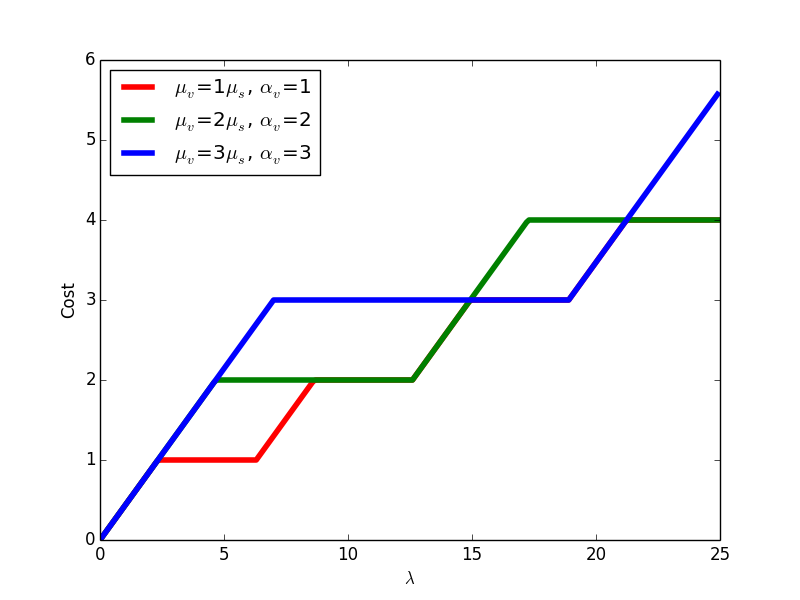
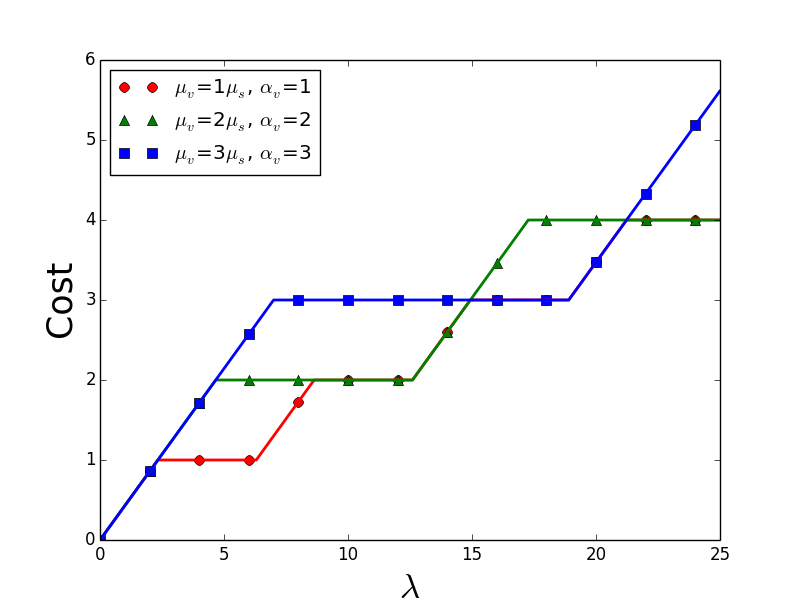
final version of code for all netEcon experiments

diff --git a/scripts/generate_plots.py b/scripts/generate_plots.py
@@ -505,7 +505,7 @@ def calcVMcost(alpha_m, mu_m, gamma, i, lambda_m, mode):
 
 def plotmultipleVMs_vary_mu():
 	max_lambda = 24
-	lambdas = [.1*x for x in range(0,((max_lambda+1)*10))]
+	lambdas = [.01*x for x in range(0,((max_lambda+1)*100))]
 	alpha_v_multiple = 1.0
 	alpha_s = 3*alpha_v_multiple
 	mu_ratios = [1,2,3]
@@ -550,20 +550,23 @@ def plotmultipleVMs_vary_mu():
 	for ratio in mu_ratios:
 		key = r'$\mu_v$=' + str(ratio) + r'$\mu_s$' + ', ' + r'$\alpha_v$=' + str(ratio)
 		legends.append(key)
-	plt.plot(lambdas, results[0], 'r', linewidth=4)
-	plt.plot(lambdas, results[1], 'g', linewidth=4)
-	plt.plot(lambdas, results[2], 'b', linewidth=4)
+	plt.plot(lambdas[::200], results[0][::200], 'ro', markersize=7)
+	plt.plot(lambdas[::200], results[1][::200], 'g^', markersize=7)
+	plt.plot(lambdas[::200], results[2][::200], 'bs', markersize=7)
+	plt.plot(lambdas, results[0], 'r', linewidth='2')
+	plt.plot(lambdas, results[1], 'g', linewidth='2')
+	plt.plot(lambdas, results[2], 'b', linewidth='2')
 	# plt.plot(lambdas, results[3], 'cD')
 	plt.legend(legends, loc='upper left')
-	plt.ylabel('Cost')
+	plt.ylabel('Cost', fontsize=25)
 	# title = "Multiple VMs, different price ratios"
 	# fig.suptitle(title)
-	plt.xlabel(r'$\lambda$')
+	plt.xlabel(r'$\lambda$', fontsize=25)
 	plt.savefig(filename)
 
 def plotmultipleVMs_vary_price_ratio():
 	max_lambda = 24
-	lambdas = [.1*x for x in range(0,((max_lambda+1)*10))]
+	lambdas = [.01*x for x in range(0,((max_lambda+1)*100))]
 	alpha_v = 1.0
 	price_ratios = [1.3,3,10]
 	mu_v = 7.0
@@ -609,15 +612,18 @@ def plotmultipleVMs_vary_price_ratio():
 		# key = "hello" + str(ratio) 
 		key = r'$\alpha_s$=' + str(ratio) + r'$\alpha_v$'
 		legends.append(key)
-	plt.plot(lambdas, results[0], 'r', linewidth=4)
-	plt.plot(lambdas, results[1], 'g', linewidth=4)
-	plt.plot(lambdas, results[2], 'b', linewidth=4)
+	plt.plot(lambdas[::200], results[0][::200], 'ro', markersize=7)
+	plt.plot(lambdas[::200], results[1][::200], 'g^', markersize=7)
+	plt.plot(lambdas[::200], results[2][::200], 'bs', markersize=7)
+	plt.plot(lambdas, results[0], 'r', linewidth='2')
+	plt.plot(lambdas, results[1], 'g', linewidth='2')
+	plt.plot(lambdas, results[2], 'b', linewidth='2')
 	# plt.plot(lambdas, results[3], 'cD')
 	plt.legend(legends, loc='upper left')
-	plt.ylabel('Cost')
+	plt.ylabel('Cost', fontsize=25)
 	# title = "Multiple VMs, different price ratios"
 	# fig.suptitle(title)
-	plt.xlabel(r'$\lambda$')
+	plt.xlabel(r'$\lambda$', fontsize=25)
 	plt.savefig(filename)
 
 def plotmultipleVMonoff_vary_price_ratio():
@@ -722,10 +728,15 @@ def plotmultipleVMonoff_vary_price_ratio():
 		# key = "hello" + str(ratio) 
 		key = r'$\alpha_s$=' + str(ratio) + r'$\alpha_v$'
 		legends.append(key)
-	plt.plot(lambdas, results[0], 'c', linewidth=4)
-	plt.plot(lambdas, results[1], 'r', linewidth=4)
-	plt.plot(lambdas, results[2], 'g', linewidth=4)
-	plt.plot(lambdas, results[3], 'b', linewidth=4)
+	plt.plot(lambdas[::200], results[0][::200], 'c*', markersize=7)
+	plt.plot(lambdas[::200], results[1][::200], 'ro', markersize=7)
+	plt.plot(lambdas[::200], results[2][::200], 'g^', markersize=7)
+	plt.plot(lambdas[::200], results[3][::200], 'bs', markersize=7)
+	plt.plot(lambdas, results[0], 'c', linewidth='2')
+	plt.plot(lambdas, results[1], 'r', linewidth='2')
+	plt.plot(lambdas, results[2], 'g', linewidth='2')
+	plt.plot(lambdas, results[3], 'b', linewidth='2')
+
 	plt.legend(legends, loc='upper left')
 	plt.ylabel('Cost')
 	# title = "Multiple VMs, different price ratios"
@@ -829,21 +840,31 @@ def plotmultipleVMonoff_vary_mu():
 							cost = Cv
 					results_price.append(cost)
 		results.append(results_price)
-	filename = '../graphs/multVMonoff_vary_mu'  + '.png'
+	filename = '../graphs/multVMsonoff_vary_mu'  + '.png'
 	fig = plt.figure()
 	legends = []
 	for ratio in mu_ratios:
 		key = r'$\mu_v$=' + str(ratio) + r'$\mu_s$' + ', ' + r'$\alpha_v$=' + str(ratio)
 		legends.append(key)
-	plt.plot(lambdas, results[0], 'r', linewidth=4)
-	plt.plot(lambdas, results[1], 'g', linewidth=4)
-	plt.plot(lambdas, results[2], 'b', linewidth=4)
+	# plt.plot(lambdas, results[0], 'r', marker='o', linestyle='-')
+	# plt.plot(lambdas, results[1], 'g', marker='s', linestyle='-')
+	# plt.plot(lambdas, results[2], 'b', marker='^', linestyle='-')
+	plt.plot(lambdas[::200], results[0][::200], 'ro', markersize=7)
+	plt.plot(lambdas[::200], results[1][::200], 'g^', markersize=7)
+	plt.plot(lambdas[::200], results[2][::200], 'bs', markersize=7)
+	plt.plot(lambdas, results[0], 'r', linewidth='2')
+	plt.plot(lambdas, results[1], 'g', linewidth='2')
+	plt.plot(lambdas, results[2], 'b', linewidth='2')
+	
+	# plt.plot(lambdas, results[1], 'g', linewidth='3')
+	# plt.plot(lambdas, results[2], 'b', linewidth='3')
+
 	# plt.plot(lambdas, results[3], 'cD')
 	plt.legend(legends, loc='upper left')
-	plt.ylabel('Cost')
+	plt.ylabel('Cost', fontsize=25)
 	# title = "Multiple VMs, different price ratios"
 	# fig.suptitle(title)
-	plt.xlabel(r'$\lambda$')
+	plt.xlabel(r'$\lambda$', fontsize=25)
 	plt.savefig(filename)
 
 def plotmultipleVMonoff_vary_gamma():
@@ -949,22 +970,137 @@ def plotmultipleVMonoff_vary_gamma():
 		# key = "hello" + str(ratio) 
 		key = '1/' + r'$\gamma$' + ' = ' + str(int(1/ratio))
 		legends.append(key)
-	plt.plot(lambdas, results[0], 'r', linewidth=4)
-	plt.plot(lambdas, results[1], 'g', linewidth=4)
-	plt.plot(lambdas, results[2], 'b', linewidth=4)
+	plt.plot(lambdas[::100], results[0][::100], 'ro', markersize=7)
+	plt.plot(lambdas[::100], results[1][::100], 'g^', markersize=7)
+	plt.plot(lambdas[::100], results[2][::100], 'bs', markersize=7)
+	plt.plot(lambdas, results[0], 'r', linewidth='2')
+	plt.plot(lambdas, results[1], 'g', linewidth='2')
+	plt.plot(lambdas, results[2], 'b', linewidth='2')
 	# plt.plot(lambdas, results[3], 'cD')
 	plt.legend(legends, loc='upper left')
-	plt.ylabel('Cost')
+	plt.ylabel('Cost', fontsize=25)
 	# title = "Multiple VMs, different price ratios"
 	# fig.suptitle(title)
-	plt.xlabel(r'$\lambda$')
+	plt.xlabel(r'$\lambda$', fontsize=25)
 	plt.savefig(filename)
+
+def plotcostserv_to_vm_ON():
+	max_lambda = 3
+	lambdas = [x for x in range(1, max_lambda+1)]
+	mu_s = 10.0
+	max_alpha_v = 7 
+	alpha_v_range = [0.01*x for x in range(0,((max_alpha_v+1)*100))]
+
+	results = []
+	for val_lambda in lambdas:
+		results_alpha_s = []
+		for alpha_v in alpha_v_range:
+			alpha_s = alpha_v * (mu_s/val_lambda)
+			results_alpha_s.append(alpha_s)
+		results.append(results_alpha_s)
+	filename = '../graphs/as_vs_av_ON'  + '.png'
+	fig = plt.figure()
+	legends = []
+	for val_lambda in lambdas: 
+		key = r'$\lambda$' + ' = ' + str(val_lambda)
+		legends.append(key)
+	plt.plot(alpha_v_range[::100], results[0][::100], 'ro', markersize=7)
+	plt.plot(alpha_v_range[::100], results[1][::100], 'g^', markersize=7)
+	plt.plot(alpha_v_range[::100], results[2][::100], 'bs', markersize=7)
+	plt.plot(alpha_v_range, results[0], 'r', linewidth='2')
+	plt.plot(alpha_v_range, results[1], 'g', linewidth='2')
+	plt.plot(alpha_v_range, results[2], 'b', linewidth='2')
+	# plt.plot(lambdas, results[3], 'cD')
+	plt.legend(legends, loc='upper left')
+	plt.ylabel(r'$\alpha_s$', fontsize=25)
+	plt.ylim([0,90])
+	# title = "Multiple VMs, different price ratios"
+	# fig.suptitle(title)
+	plt.xlabel(r'$\alpha_v$', fontsize=25)
+	plt.savefig(filename)
+
+def plotcostserv_to_vm_ON_OFF():
+	max_lambda = 3
+	lambdas = [x for x in range(1, max_lambda+1)]
+	mu_v = 7.0
+	mu_s = 10.0
+	max_alpha_v = 7 
+	alpha_v_range = [0.01*x for x in range(0,((max_alpha_v+1)*100))]
+	gamma = 1.0
+
+	results = []
+	for val_lambda in lambdas:
+		results_alpha_s = []
+		for alpha_v in alpha_v_range:
+			alpha_s = alpha_v * (mu_s/val_lambda) * (  (1/gamma) + (1/(mu_v - val_lambda) )/(  (1/gamma) + (1/(mu_v - val_lambda) ) + (1/val_lambda)  )    )
+			results_alpha_s.append(alpha_s)
+		results.append(results_alpha_s)
+	filename = '../graphs/as_vs_av_ON_OFF'  + '.png'
+	fig = plt.figure()
+	legends = []
+	for val_lambda in lambdas: 
+		key = r'$\lambda$' + ' = ' + str(val_lambda)
+		legends.append(key)
+	plt.plot(alpha_v_range[::100], results[0][::100], 'ro', markersize=7)
+	plt.plot(alpha_v_range[::100], results[1][::100], 'g^', markersize=7)
+	plt.plot(alpha_v_range[::100], results[2][::100], 'bs', markersize=7)
+	plt.plot(alpha_v_range, results[0], 'r', linewidth='2')
+	plt.plot(alpha_v_range, results[1], 'g', linewidth='2')
+	plt.plot(alpha_v_range, results[2], 'b', linewidth='2')
+	plt.legend(legends, loc='upper left')
+	plt.ylabel(r'$\alpha_s$', fontsize=25)
+	# title = "Multiple VMs, different price ratios"
+	# fig.suptitle(title)
+	plt.ylim([0,90])
+	plt.xlabel(r'$\alpha_v$', fontsize=25)
+	plt.savefig(filename)
+
+def plotmus_to_muv_ON_OFF():
+	max_lambda = 3
+	lambdas = [x for x in range(1, max_lambda+1)]
+	gamma = 1.0
+	beta = 0.9
+	alpha_s = 3.0
+	min_alpha_v = 1.0
+	results = []
+	mu_v_values_final = []
+	for val_lambda in lambdas:
+		min_mu_v = val_lambda/beta
+		mu_v_values = []
+		results_mu_v = []
+		for i in range(0,600):
+			mu_v = min_mu_v + (0.01*i)
+			mu_v_values.append(mu_v)
+			alpha_v = (min_alpha_v/min_mu_v) * mu_v
+			mu_s = (alpha_s/alpha_v) * val_lambda * (1 / (  (1/gamma) + (1/(mu_v - val_lambda) )/(  (1/gamma) + (1/(mu_v - val_lambda) ) + (1/val_lambda)  )    ))
+			results_mu_v.append(mu_s)
+		results.append(results_mu_v)
+		mu_v_values_final.append(mu_v_values)
+	filename = '../graphs/mus_vs_muv_ON_OFF'  + '.png'
+	fig = plt.figure()
+	plt.plot(mu_v_values_final[0][::50], results[0][::50], 'ro', markersize=7)
+	plt.plot(mu_v_values_final[1][::50], results[1][::50], 'g^', markersize=7)
+	plt.plot(mu_v_values_final[2][::50], results[2][::50], 'bs', markersize=7)
+	plt.plot(mu_v_values_final[0], results[0], 'r', linewidth='2')
+	plt.plot(mu_v_values_final[1], results[1], 'g', linewidth='2')
+	plt.plot(mu_v_values_final[2], results[2], 'b', linewidth='2')
+	legends = []
+	for val_lambda in lambdas: 
+		key = r'$\lambda$' + ' = ' + str(val_lambda)
+		legends.append(key)
+	plt.legend(legends, loc='upper left')
+	plt.ylabel(r'$\mu_s$', fontsize=25)
+	plt.xlabel(r'$\mu_v$', fontsize=25)
+	plt.savefig(filename)
+
 
 def main():
 	if len(sys.argv) != 2:
 		print "USAGE: python generate_plots.py <exp_type>"
 		print "<exp_type> : vary_num_VMs/vary_startup_delay/vary_service_rate_VM/plotVMcost/plotTotalcost"
-		print "<exp_type> : singleVM/plotmultipleVMs_vary_price_ratio/plotmultipleVMs_vary_mu/multipleVMonoff_vary_price_ratio/plotmultipleVMonoff_vary_mu/plotmultipleVMonoff_vary_gamma"
+		print "<exp_type> : plotmultipleVMs_vary_price_ratio/plotmultipleVMs_vary_mu/multipleVMonoff_vary_price_ratio/plotmultipleVMonoff_vary_mu/plotmultipleVMonoff_vary_gamma"
+		print "<exp_type> : plotcostserv_to_vm_ON/plotcostserv_to_vm_ON_OFF"
+		print "<exp_type> : plotmus_to_muv_ON_OFF"
 		return
 	exp_type = sys.argv[1]
 	if exp_type == 'vary_startup_delay':
@@ -989,10 +1125,18 @@ def main():
 		plotmultipleVMonoff_vary_mu()
 	elif exp_type == 'plotmultipleVMonoff_vary_gamma':
 		plotmultipleVMonoff_vary_gamma()
+	elif exp_type == 'plotcostserv_to_vm_ON':
+		plotcostserv_to_vm_ON()
+	elif exp_type == 'plotcostserv_to_vm_ON_OFF':
+		plotcostserv_to_vm_ON_OFF()
+	elif exp_type == 'plotmus_to_muv_ON_OFF':
+		plotmus_to_muv_ON_OFF()
 	else:
 		print "Wrong <exp_type>"
 		print "<exp_type> : vary_num_VMs/vary_startup_delay/vary_service_rate_VM/plotVMcost/plotTotalcost"
-		print "<exp_type> : singleVM/plotmultipleVMs_vary_price_ratio/plotmultipleVMs_vary_mu/multipleVMonoff_vary_price_ratio/plotmultipleVMonoff_vary_mu/plotmultipleVMonoff_vary_gamma"
+		print "<exp_type> : plotmultipleVMs_vary_price_ratio/plotmultipleVMs_vary_mu/multipleVMonoff_vary_price_ratio/plotmultipleVMonoff_vary_mu/plotmultipleVMonoff_vary_gamma"
+		print "<exp_type> : plotcostserv_to_vm_ON/plotcostserv_to_vm_ON_OFF"
+		print "<exp_type> : plotmus_to_muv_ON_OFF"
 
 if __name__ == '__main__':
 	main()
